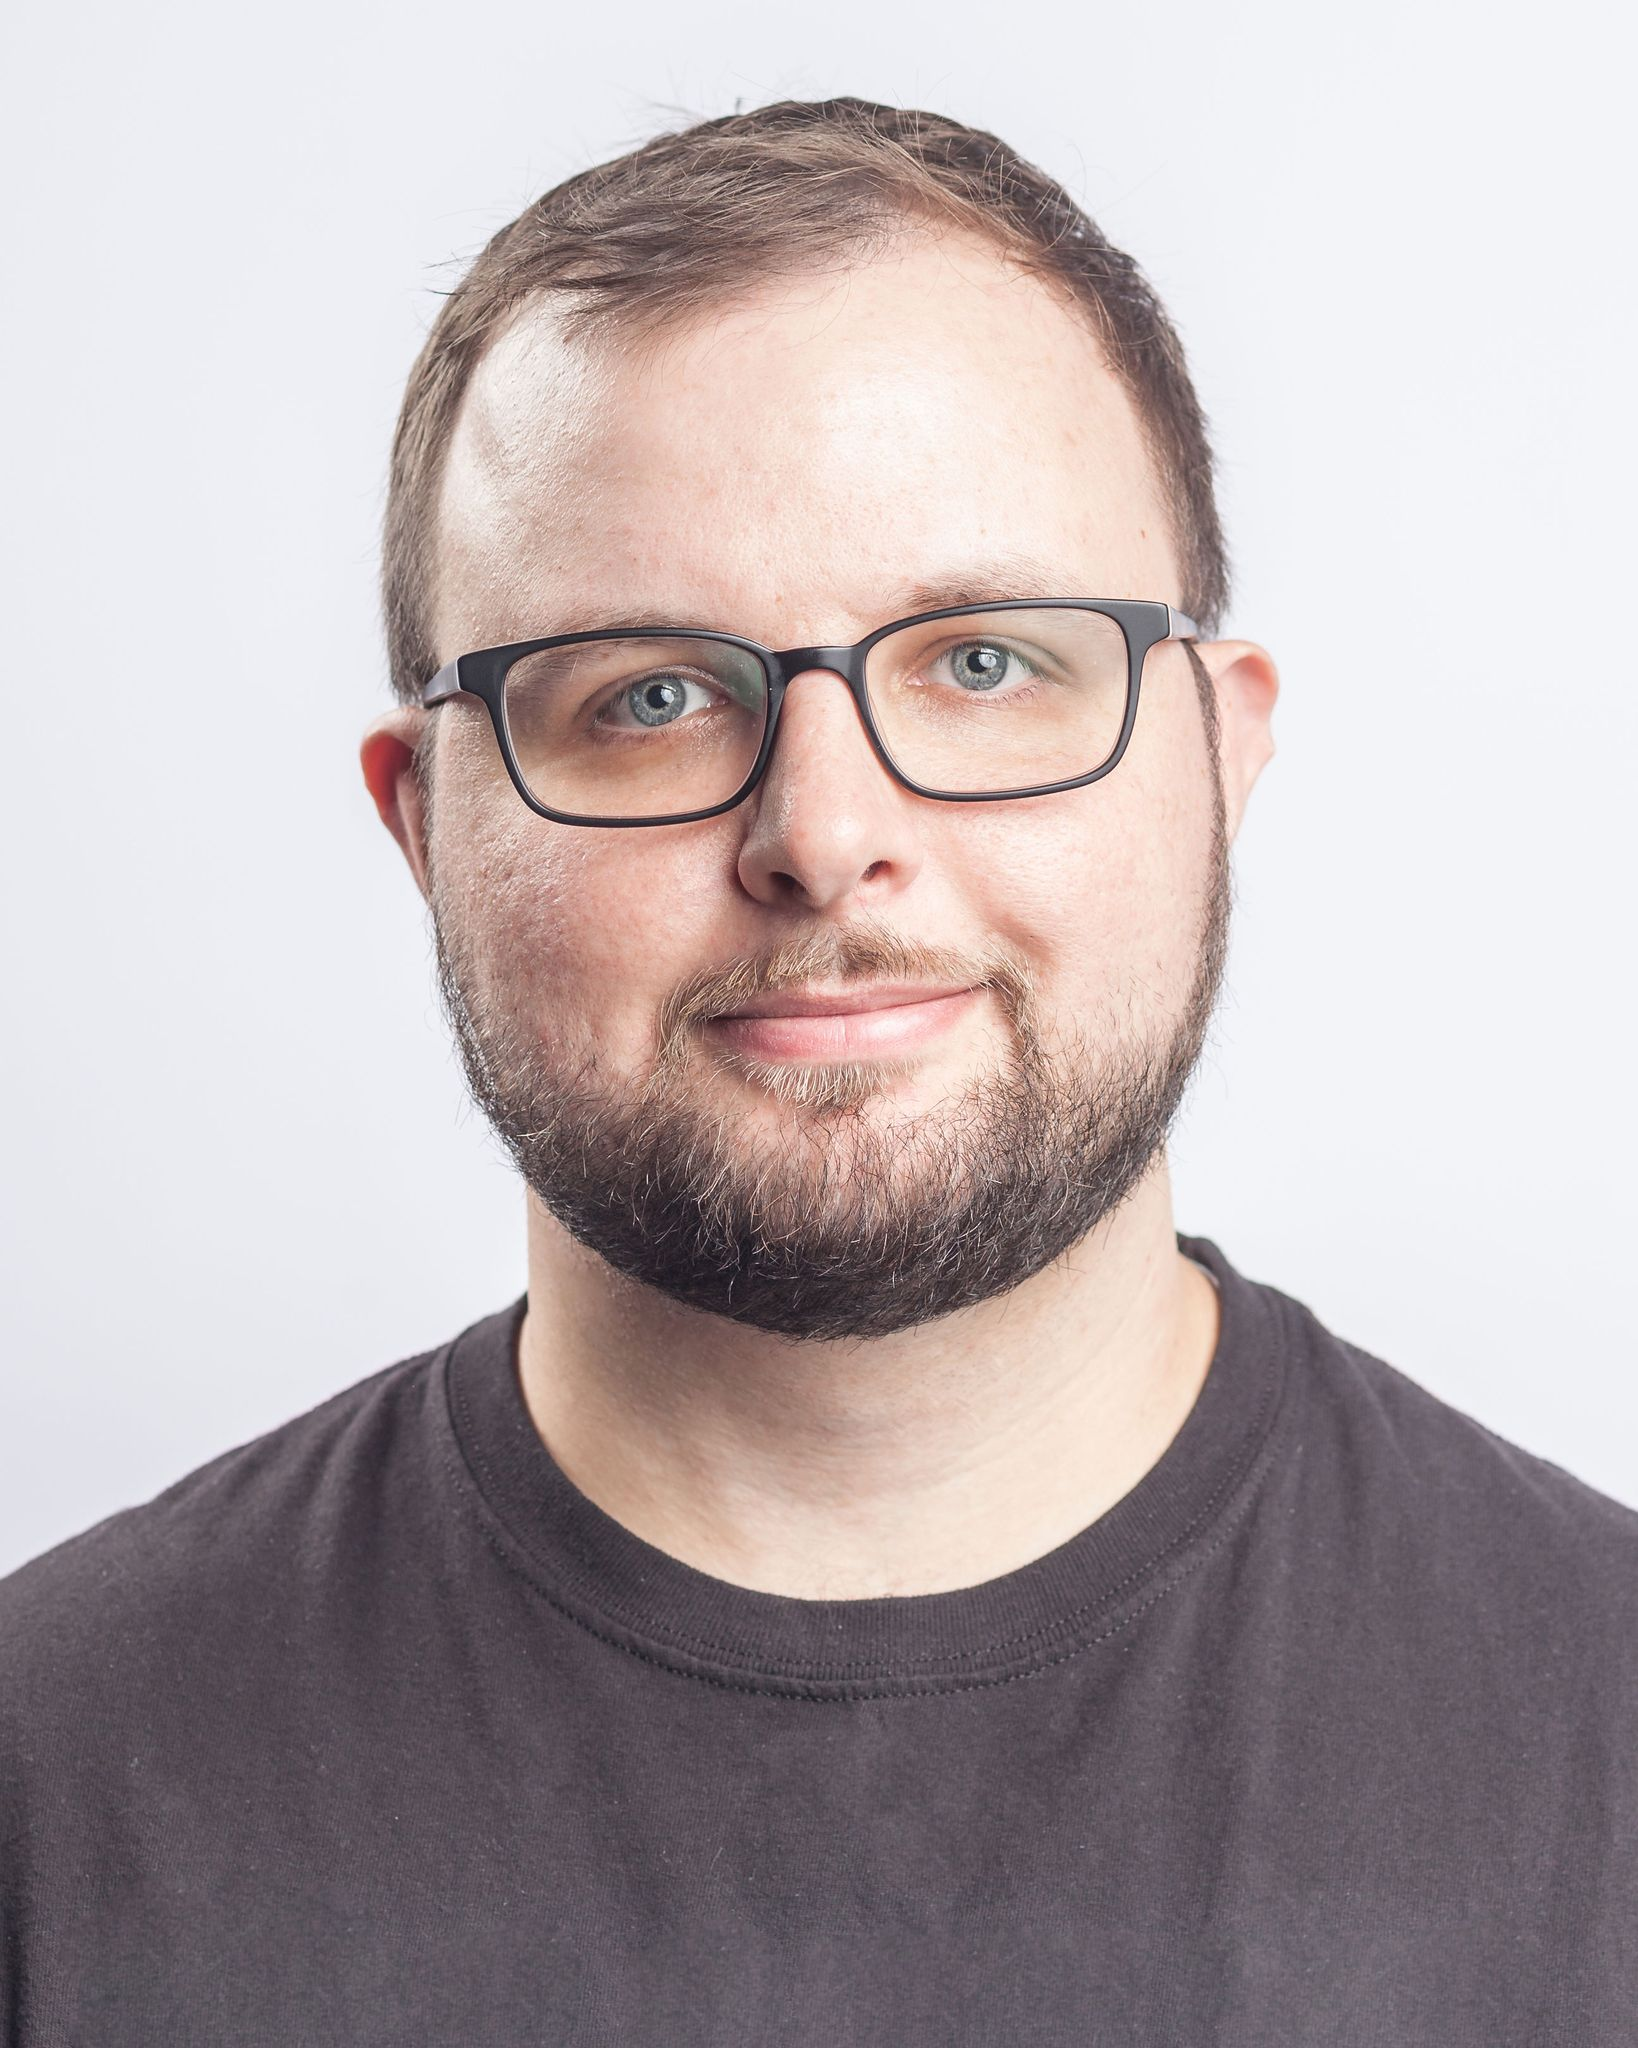
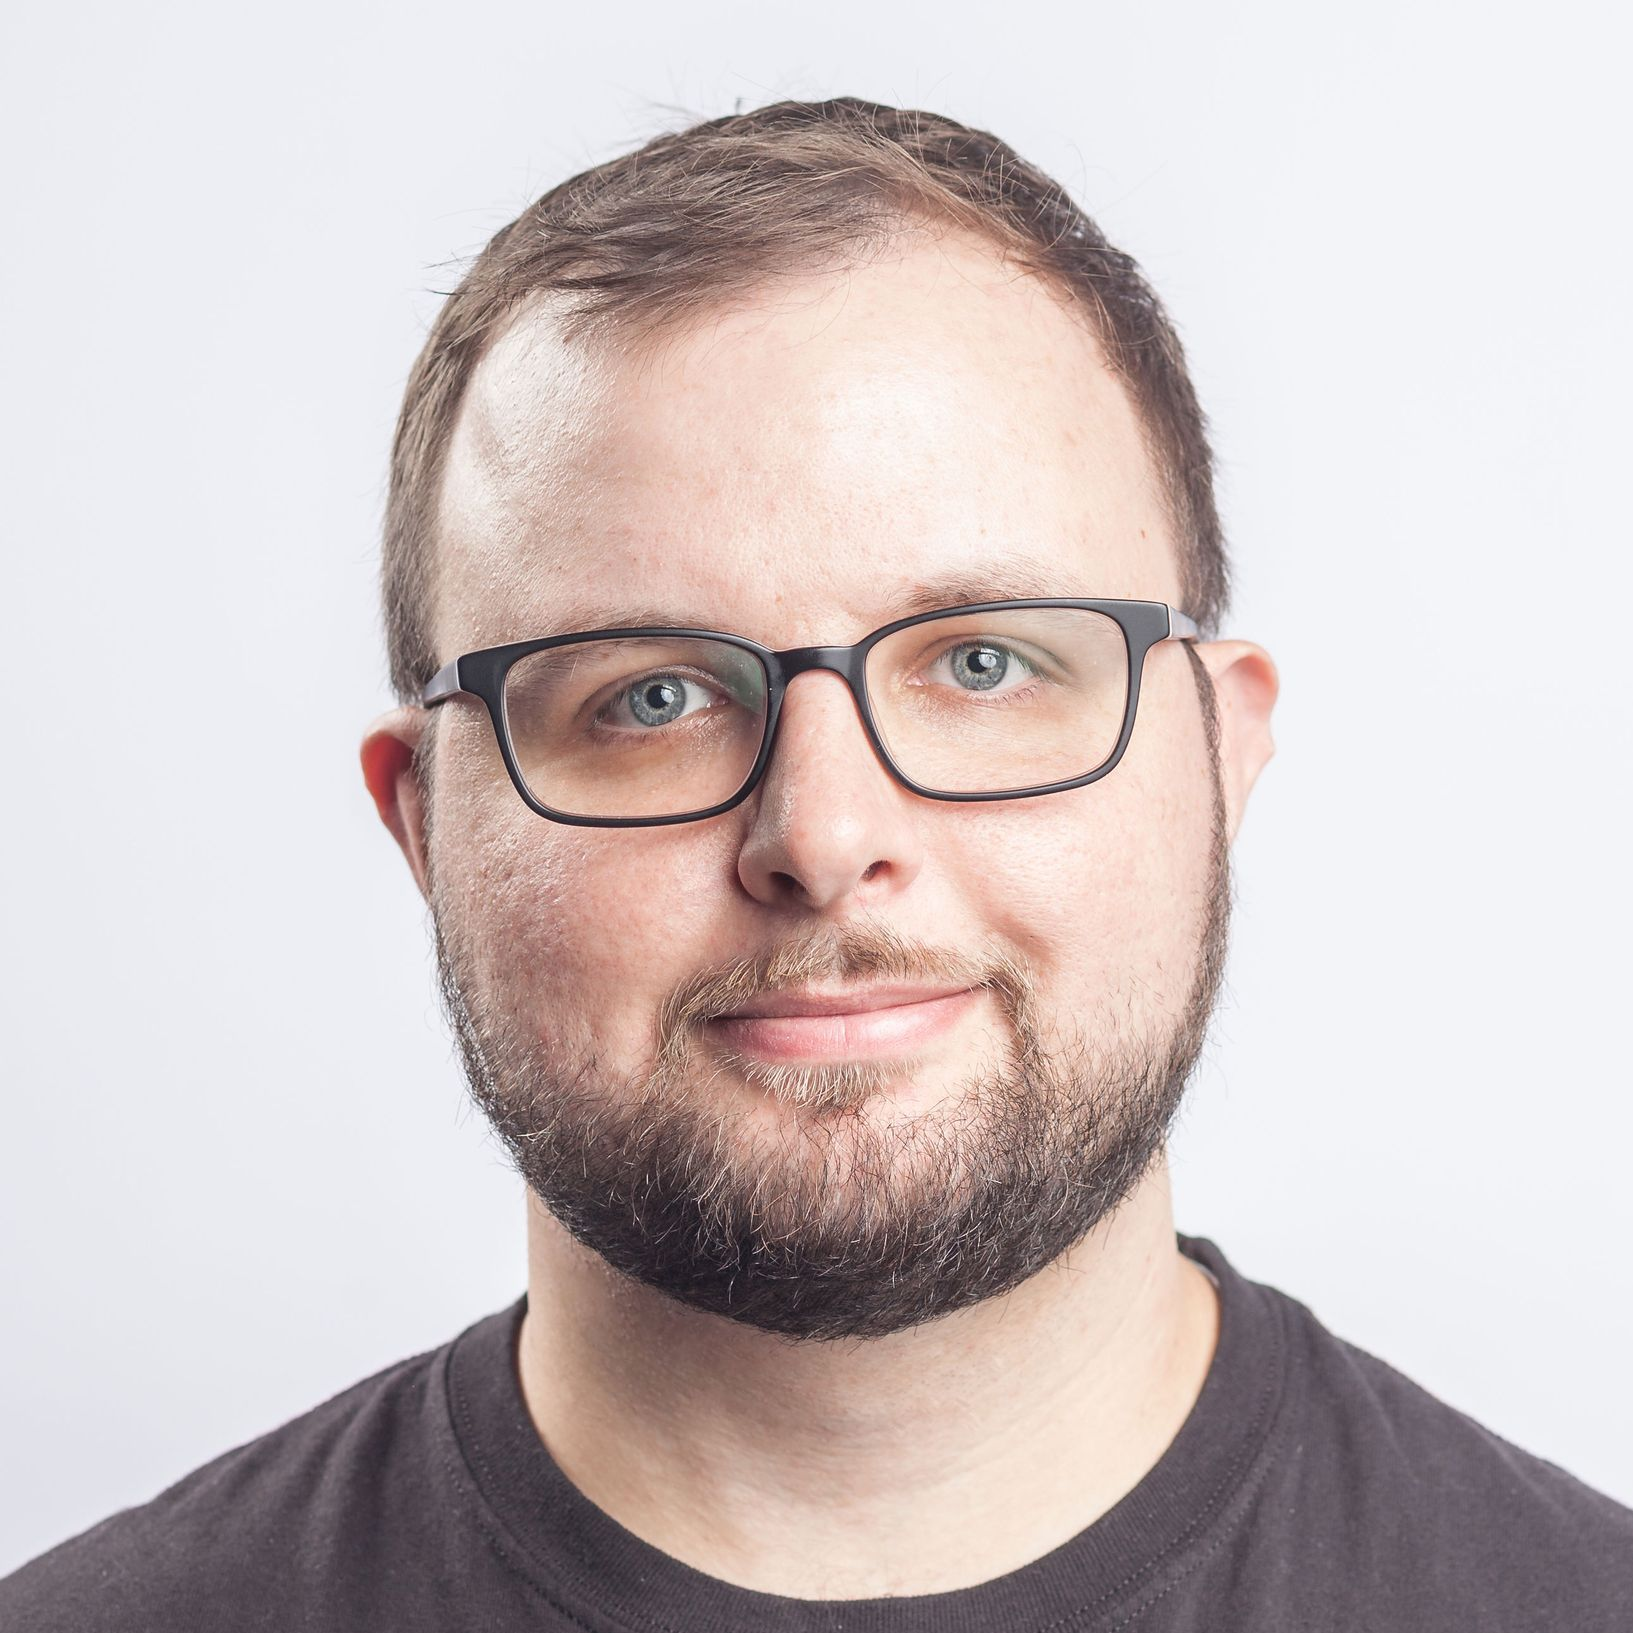
crop photos to be square

diff --git a/src/components/team.jsx b/src/components/team.jsx
@@ -17,7 +17,11 @@ export const Team = (props) => {
               <img src={"img/team/csun.png"} alt="" className="team-img" />
               <div className="caption">
                 <h4>{"Conrad Sun"}</h4>
-                <p>{".."}</p>
+                <p>
+                  {"Designer, 4IR & Industrial tech"}
+                  <br />
+                  {"Founder @ PRJCT 428, Magnetic Textile patent"}
+                </p>
               </div>
             </div>
           </div>
@@ -27,9 +31,9 @@ export const Team = (props) => {
               <div className="caption">
                 <h4>{"Ethan Goh"}</h4>
                 <p>
-                  {"Engineer with interests in fintech."}
+                  {"Engineer, Investor"}
                   <br />
-                  {"Ex-Lyft, Ex-Microsoft."}
+                  {"Ex-Lyft, Ex-Microsoft"}
                 </p>
               </div>
             </div>
@@ -39,7 +43,11 @@ export const Team = (props) => {
               <img src={"img/team/01.jpg"} alt="" className="team-img" />
               <div className="caption">
                 <h4>{"Sen Wei Lu"}</h4>
-                <p>{"."}</p>
+                <p>
+                  {""}
+                  <br />
+                  {"Startup Consultant, Investor"}
+                </p>
               </div>
             </div>
           </div>
@@ -55,7 +63,11 @@ export const Team = (props) => {
               <img src={"img/team/cbentivenga.jpg"} alt="" className="team-img" />
               <div className="caption">
                 <h4>{"Chris Bentivenga"}</h4>
-                <p>{"."}</p>
+                <p>
+                  {"UX and Growth Engineer"}
+                  <br />
+                  {"Ex-Lyft, Ex-Microsoft."}
+                </p>
               </div>
             </div>
           </div>
@@ -64,7 +76,7 @@ export const Team = (props) => {
               {" "}
               <img src={"img/team/01.jpg"} alt="" className="team-img" />
               <div className="caption">
-                <h4>{"Advisor 2"}</h4>
+                <h4>{"John Chang"}</h4>
                 <p>{"."}</p>
               </div>
             </div>
@@ -72,10 +84,14 @@ export const Team = (props) => {
           <div className="col-md-4 col-sm-12 team">
             <div className="thumbnail">
               {" "}
-              <img src={"img/team/01.jpg"} alt="" className="team-img" />
+              <img src={"img/team/xurui.jpg"} alt="" className="team-img" />
               <div className="caption">
-                <h4>{"Advisor 3"}</h4>
-                <p>{"."}</p>
+                <h4>{"Xu Rui"}</h4>
+                <p>
+                  {"Product Manager @ Stripe"}
+                  <br />
+                  {"Real Estate, Ex-Microsoft"}
+                </p>
               </div>
             </div>
           </div>
